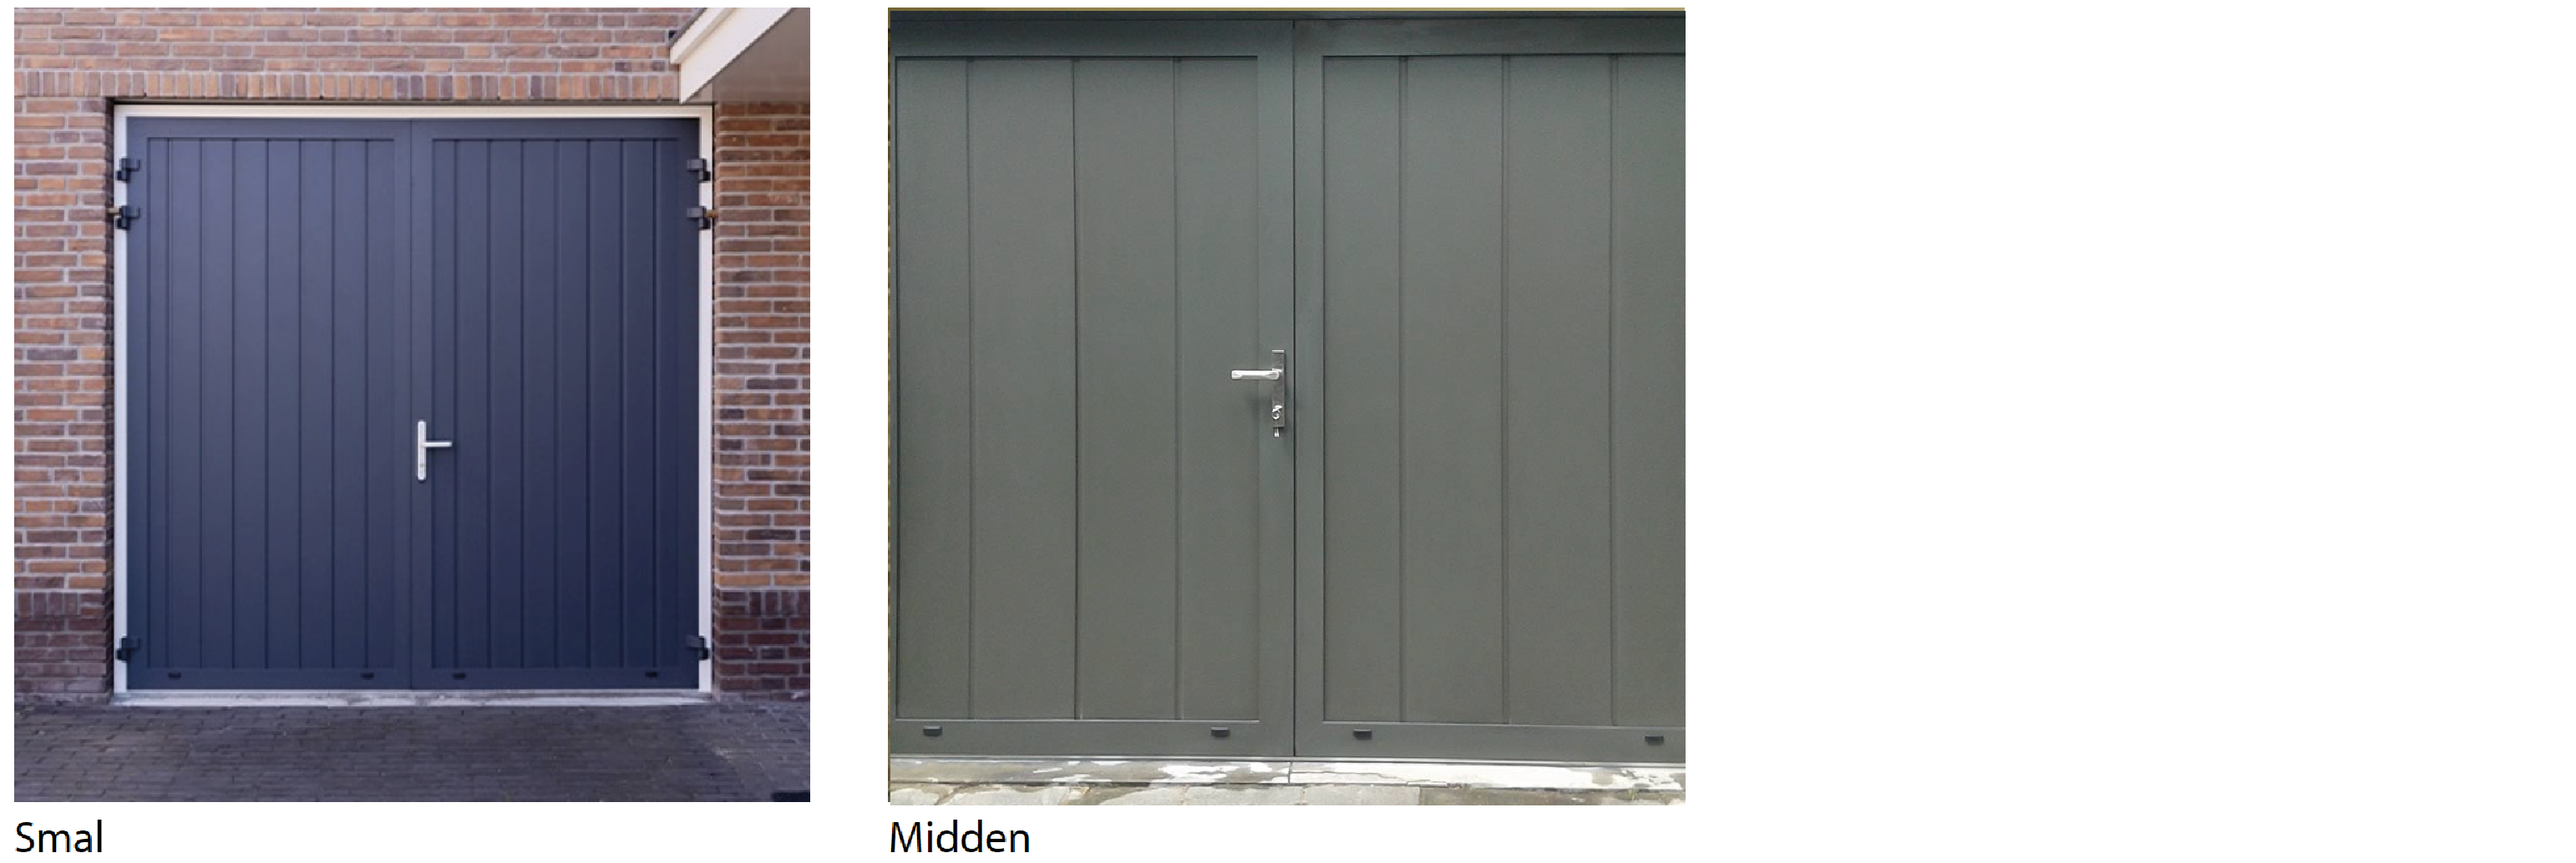
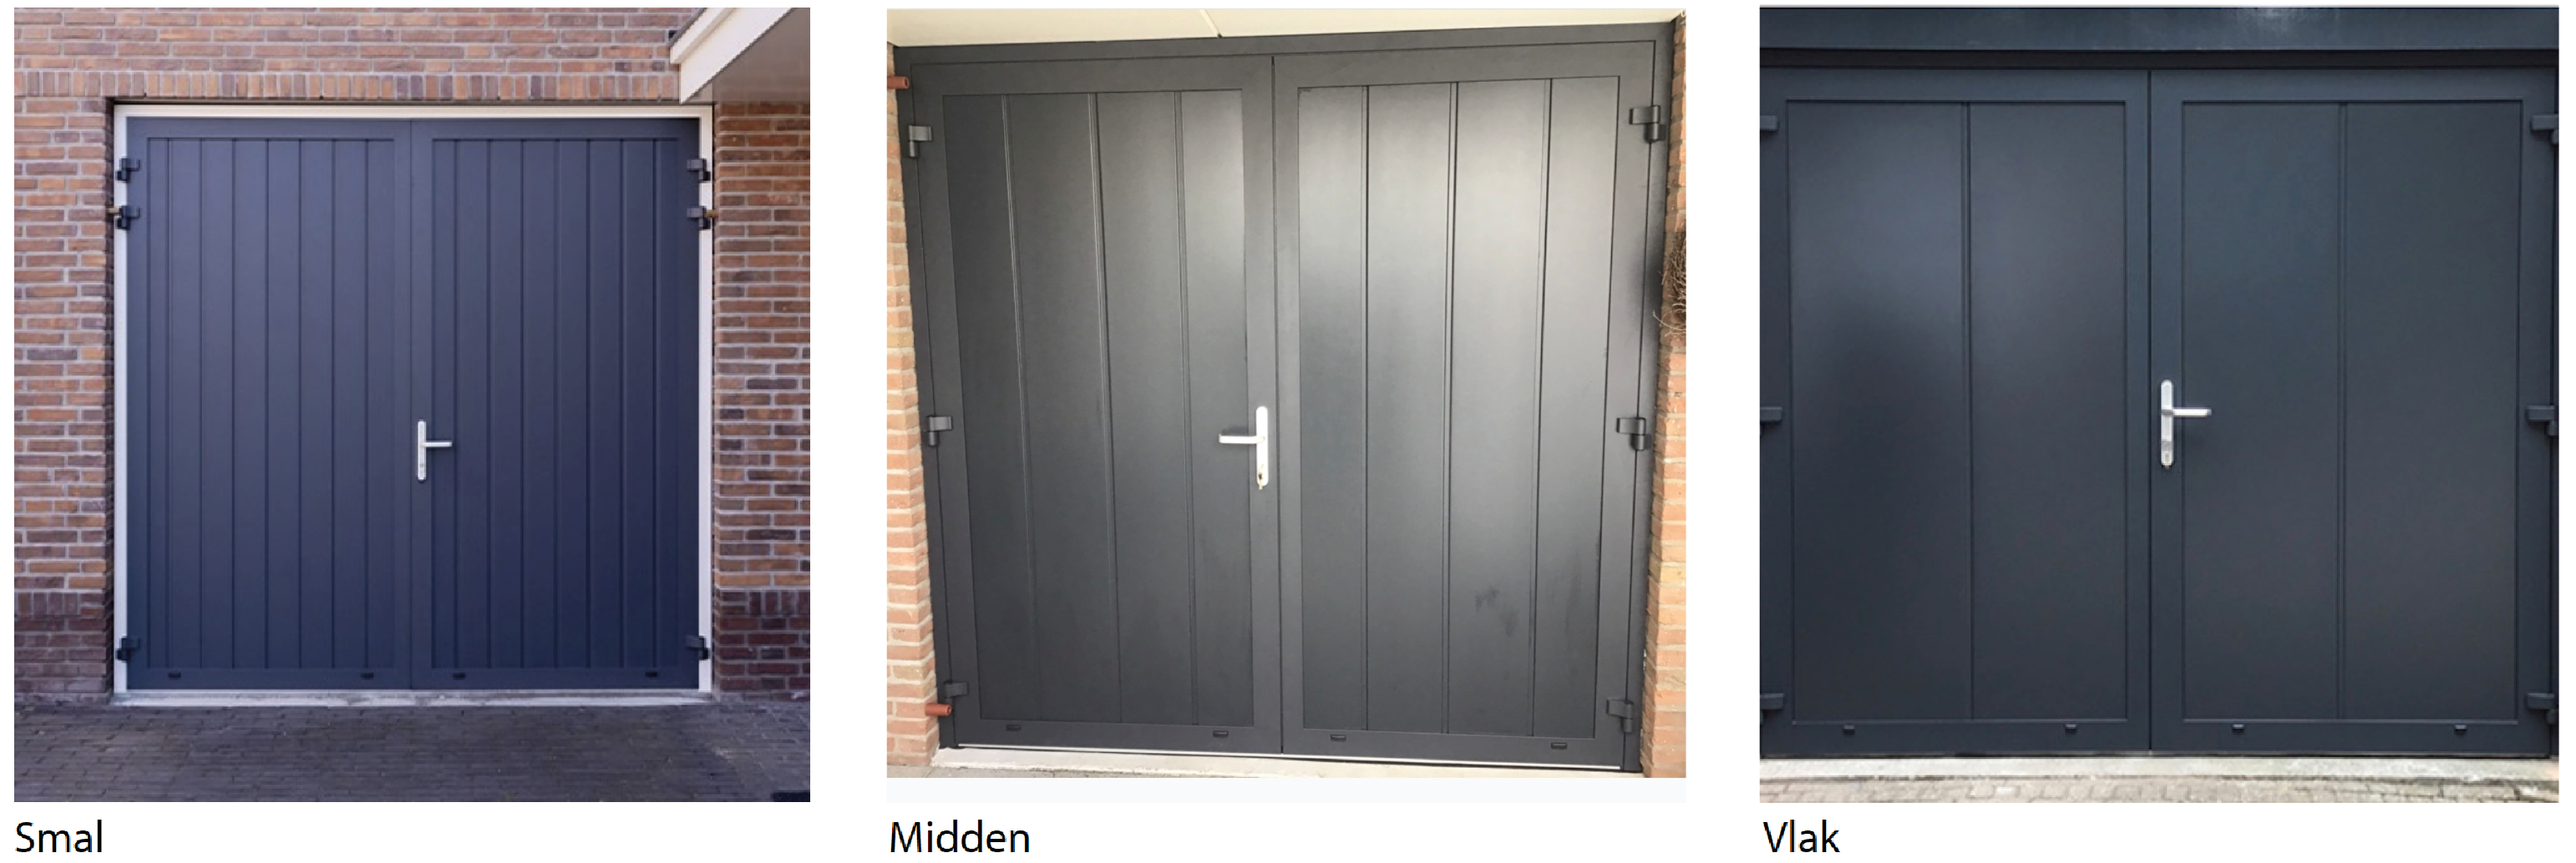
odo updates

diff --git a/src/app/_pages/verkoop/forms/form/form.component.ts b/src/app/_pages/verkoop/forms/form/form.component.ts
@@ -64,6 +64,7 @@ export class FormComponent implements OnInit {
         this.dealConfig = deal;
         this.dealConfig.values.adviseur = this.currentUser.name;
         this.dealConfig.values.title = this.page.title;
+        this.loading = false;
         this.setCustomValues();
         this.setStringToArrays();
         for (const key in this.dealConfig.values) {
@@ -75,7 +76,7 @@ export class FormComponent implements OnInit {
             delete this.dealConfig.values[key as keyof Values];
           }
         }
-        this.loading = false;
+
         this.form.setValue(this.dealConfig.values);
       }, error => {
         this.loading = false;
@@ -141,7 +142,7 @@ export class FormComponent implements OnInit {
     this.hubService.createInvoice(articles, this.dealConfig.values.deal_id).subscribe(t => {
       Swal.fire({
         title: 'Gelukt!',
-        html: `<a href="https://info.differentdoors.nl/montage-configuratie/${this.dealConfig.values.deal_id}" target="_blank">Bekijk hier de configuratie</a>`,
+        html: `<a href="https://info.differentdoors.nl/deal-configuratie/${this.dealConfig.values.deal_id}" target="_blank">Bekijk hier de configuratie</a>`,
         icon: 'success',
         confirmButtonText: 'sluiten'
       });

diff --git a/src/app/_pages/verkoop/forms/form/forms/odo.ts b/src/app/_pages/verkoop/forms/form/forms/odo.ts
@@ -104,8 +104,8 @@ export const buitenzijde: QuestionBase<string>[] = [
     label: 'Model',
     image: 'assets/forms/odo/69c3bd73-a00d-48cf-a637-51b1efd1aa9a.png',
     options: [
-      {value: 'Verticaal'},
       {value: 'Horizontaal'},
+      {value: 'Verticaal'},
       {value: 'Volledig vlakke plaat', article: 'ODO300'}
     ]
   }),
